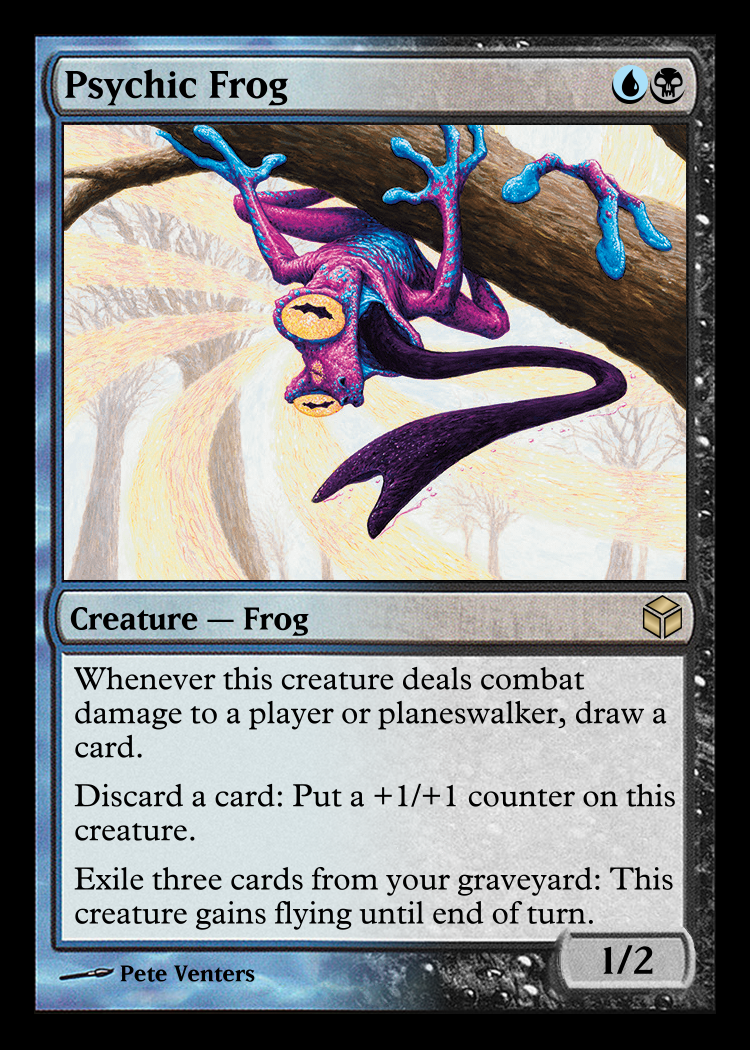
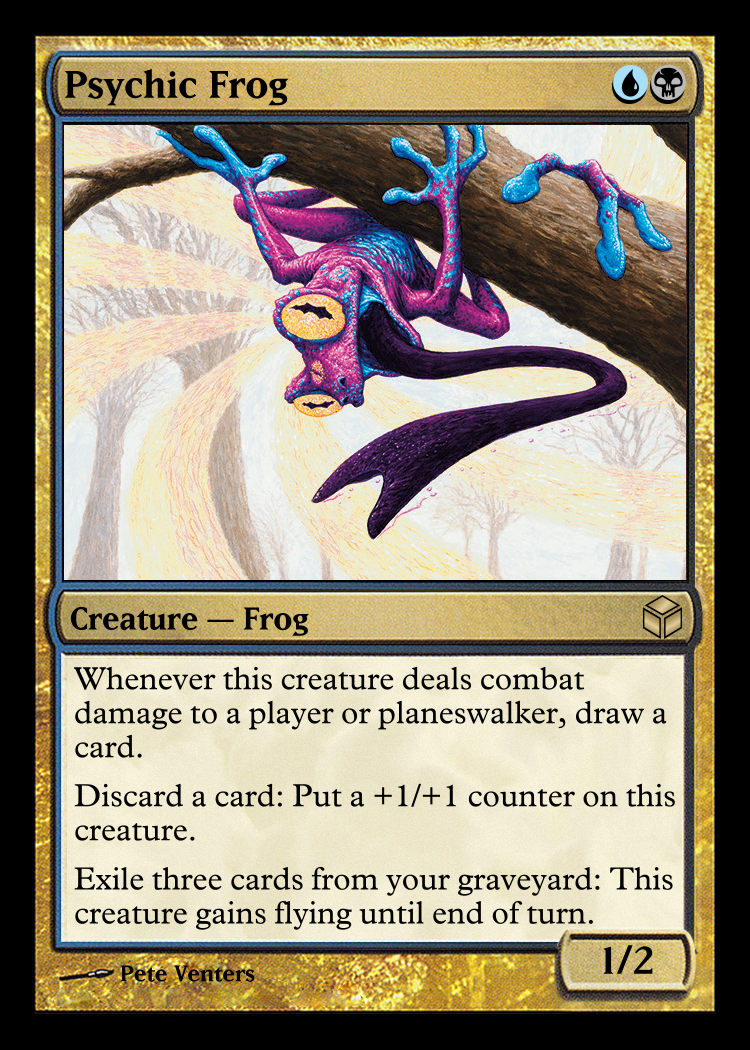
fix: fix two colored creature

diff --git a/README.md b/README.md
@@ -36,7 +36,9 @@ Here is a look at what cards generated with this template look like:
 
 ![dual-color-artifact](examples/magic-new-hd/Shorikai%20Genesis%20Engine.png)
 
-![dual-color-hybrid](examples/magic-new-hd/Psychic%20Frog.png)
+![dual-color-hybrid](examples/magic-new-hd/Deceit.png)
+
+![dual-color-creature](examples/magic-new-hd/Psychic%20Frog.png)
 
 ![devoid](examples/magic-new-hd/Sowing%20Mycospawn.png)
 
